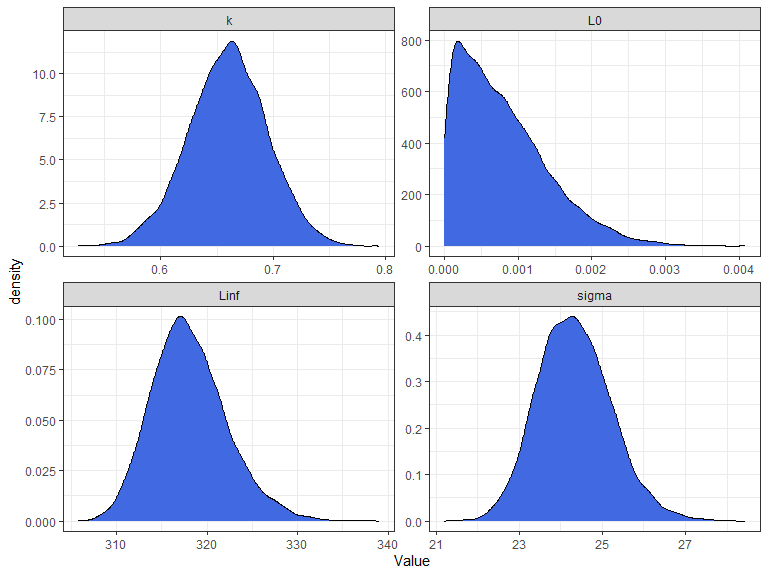
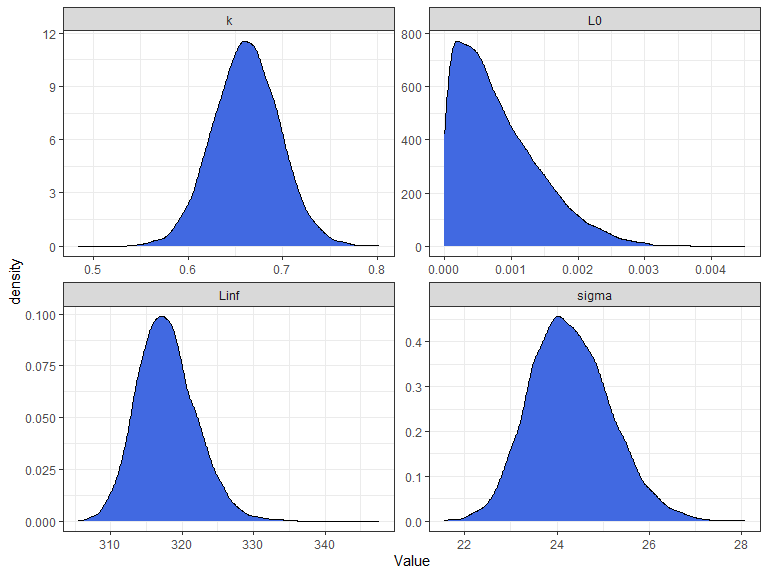
1st Cran submission updates

diff --git a/README.md b/README.md
@@ -112,11 +112,11 @@ fit
 #> post-warmup draws per chain=2500, total post-warmup draws=10000.
 #> 
 #>           mean se_mean   sd     2.5%      25%      50%      75%    97.5% n_eff
-#> Linf    318.07    0.08 4.18   310.76   315.17   317.73   320.61   327.37  2433
-#> k         0.66    0.00 0.03     0.59     0.64     0.66     0.68     0.73  2506
-#> L0        0.00    0.00 0.00     0.00     0.00     0.00     0.00     0.00  4382
-#> sigma    24.33    0.02 0.89    22.71    23.71    24.29    24.91    26.21  2806
-#> lp__  -3933.99    0.03 1.55 -3937.92 -3934.75 -3933.63 -3932.84 -3932.05  2681
+#> Linf    317.86    0.09 4.13   310.52   314.98   317.58   320.40   326.58  2150
+#> k         0.66    0.00 0.03     0.59     0.64     0.66     0.69     0.73  2274
+#> L0        0.00    0.00 0.00     0.00     0.00     0.00     0.00     0.00  3991
+#> sigma    24.30    0.02 0.87    22.73    23.68    24.25    24.87    26.13  2538
+#> lp__  -3933.95    0.03 1.52 -3937.81 -3934.70 -3933.61 -3932.84 -3932.06  2305
 #>       Rhat
 #> Linf     1
 #> k        1
@@ -124,7 +124,7 @@ fit
 #> sigma    1
 #> lp__     1
 #> 
-#> Samples were drawn using NUTS(diag_e) at Fri Nov 17 08:47:53 2023.
+#> Samples were drawn using NUTS(diag_e) at Mon Nov 20 13:44:46 2023.
 #> For each parameter, n_eff is a crude measure of effective sample size,
 #> and Rhat is the potential scale reduction factor on split chains (at 
 #> convergence, Rhat=1).
